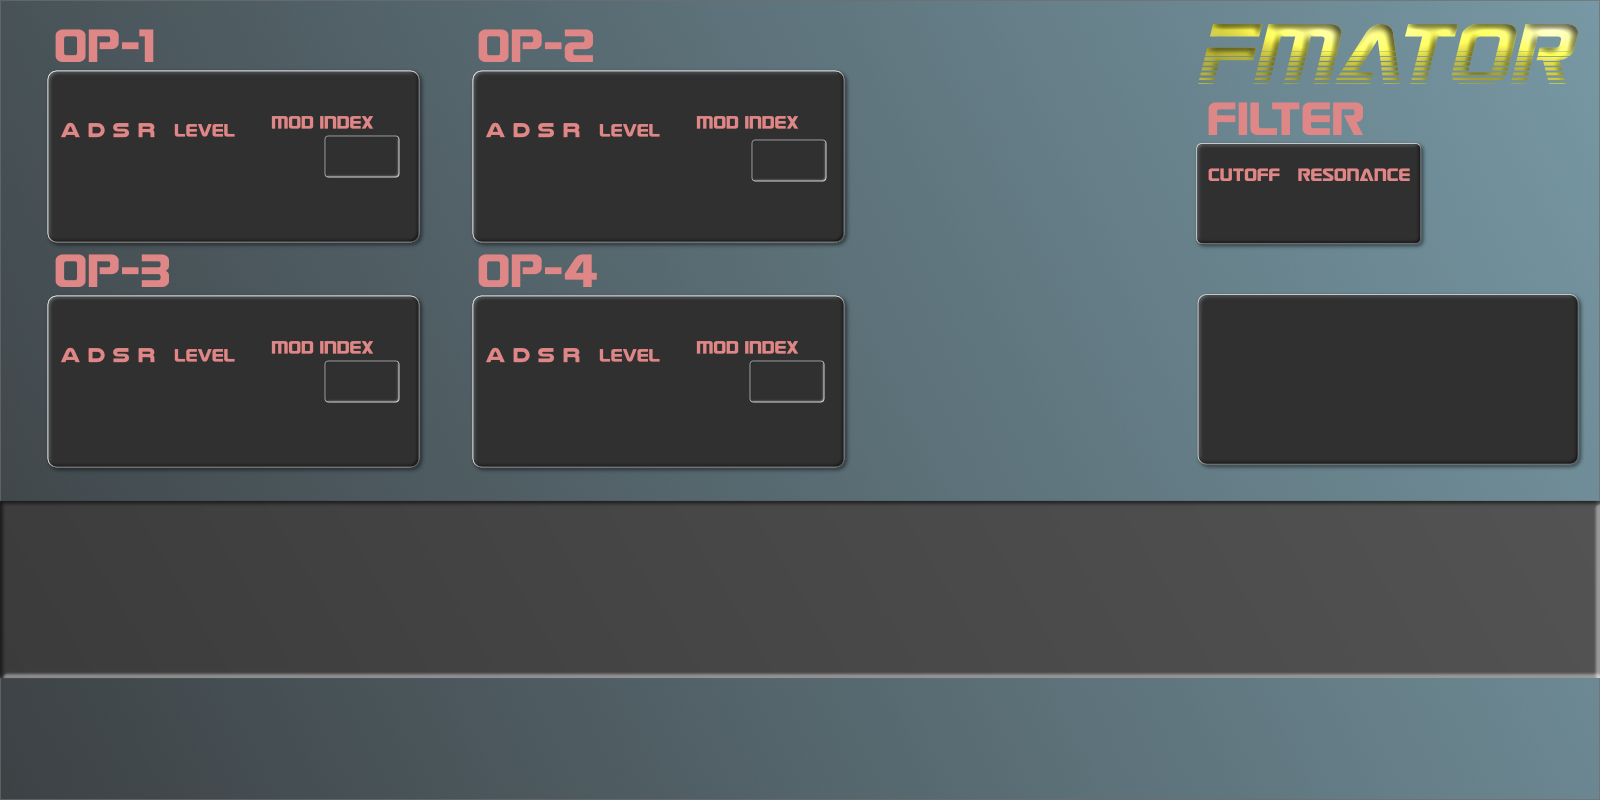
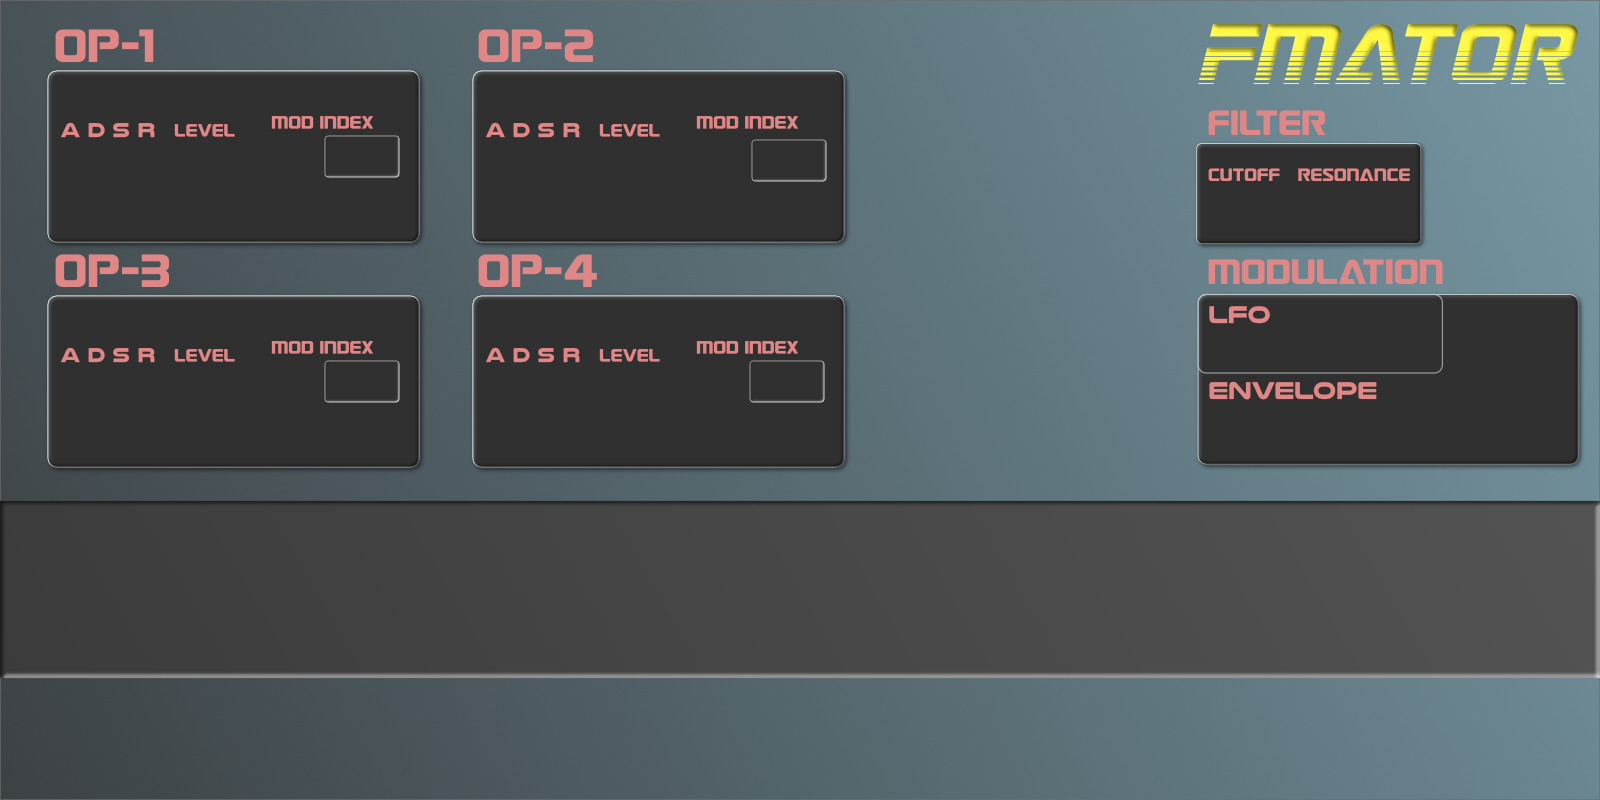
Added LFO backend, Envelope front end and fixes.
MEMORY LEAK IS PRESENT

diff --git a/Source/PluginEditor.cpp b/Source/PluginEditor.cpp
@@ -12,7 +12,7 @@
 
 //==============================================================================
 ThirdYearProjectAudioProcessorEditor::ThirdYearProjectAudioProcessorEditor (ThirdYearProjectAudioProcessor& p)
-	: AudioProcessorEditor (&p), audioProcessor (p), keyboardComponent(keyboardState, MidiKeyboardComponent::horizontalKeyboard)
+	: AudioProcessorEditor (&p), audioProcessor (p), keyboardComponent(audioProcessor.keyboardState, MidiKeyboardComponent::horizontalKeyboard)
 {
 
 	// Make sure that before the constructor has finished, you've set the
@@ -25,7 +25,7 @@ ThirdYearProjectAudioProcessorEditor::ThirdYearProjectAudioProcessorEditor (Thir
 
 	// Keyboard
 	addAndMakeVisible(keyboardComponent);
-	keyboardState.addListener(this);
+	audioProcessor.keyboardState.addListener(this);
 	keyboardComponent.setAvailableRange(0, 127);
 
 	specWidth = getLocalBounds().getWidth();
@@ -283,6 +283,43 @@ ThirdYearProjectAudioProcessorEditor::ThirdYearProjectAudioProcessorEditor (Thir
 	op4ReleaseSlider.setTextBoxStyle(noDisplay, false, 1, 1);
 	op4ReleaseSliderAttachment = new AudioProcessorValueTreeState::SliderAttachment(audioProcessor.apvt, "OP4RELEASE", op4ReleaseSlider);
 
+	// mod ADSR
+// Adding slider
+	addAndMakeVisible(modAttackSlider);
+	modAttackSlider.setRange(0, 12);
+	modAttackSlider.setTextValueSuffix("s");
+	modAttackSlider.addListener(this);
+	modAttackSlider.setColour(Slider::ColourIds::backgroundColourId, Colour(0, 74, 97));
+	modAttackSlider.setSliderStyle(Slider::SliderStyle::LinearVertical);
+	modAttackSlider.setTextBoxStyle(noDisplay, false, 1, 1);
+	modAttackSliderAttachment = new AudioProcessorValueTreeState::SliderAttachment(audioProcessor.apvt, "MODATTACK", modAttackSlider);
+	// Adding slider
+	addAndMakeVisible(modDecaySlider);
+	modDecaySlider.setRange(0, 12);
+	modDecaySlider.setTextValueSuffix("s");
+	modDecaySlider.addListener(this);
+	modDecaySlider.setColour(Slider::ColourIds::backgroundColourId, Colour(0, 74, 97));
+	modDecaySlider.setSliderStyle(Slider::SliderStyle::LinearVertical);
+	modDecaySlider.setTextBoxStyle(noDisplay, false, 1, 1);
+	modDecaySliderAttachment = new AudioProcessorValueTreeState::SliderAttachment(audioProcessor.apvt, "MODDECAY", modDecaySlider);
+	// Adding slider
+	addAndMakeVisible(modSustainSlider);
+	modSustainSlider.setRange(0, 12);
+	modSustainSlider.setTextValueSuffix("dB");
+	modSustainSlider.addListener(this);
+	modSustainSlider.setColour(Slider::ColourIds::backgroundColourId, Colour(0, 74, 97));
+	modSustainSlider.setSliderStyle(Slider::SliderStyle::LinearVertical);
+	modSustainSlider.setTextBoxStyle(noDisplay, false, 1, 1);
+	modSustainSliderAttachment = new AudioProcessorValueTreeState::SliderAttachment(audioProcessor.apvt, "MODSUSTAIN", modSustainSlider);
+	// Adding slider
+	addAndMakeVisible(modReleaseSlider);
+	modReleaseSlider.setRange(0, 12);
+	modReleaseSlider.setTextValueSuffix("s");
+	modReleaseSlider.addListener(this);
+	modReleaseSlider.setColour(Slider::ColourIds::backgroundColourId, Colour(0, 74, 97));
+	modReleaseSlider.setSliderStyle(Slider::SliderStyle::LinearVertical);
+	modReleaseSlider.setTextBoxStyle(noDisplay, false, 1, 1);
+	modReleaseSliderAttachment = new AudioProcessorValueTreeState::SliderAttachment(audioProcessor.apvt, "MODRELEASE", modReleaseSlider);
 
 	// Filter
 	// Adding slider
@@ -360,7 +397,7 @@ void ThirdYearProjectAudioProcessorEditor::resized()
 	op3ReleaseSlider.setBounds(137, secondRow + 140, 20, 95);
 
 	
-	op4LevelSlider.setBounds(secondColumn + 60, secondRow + 140, 20, 95);
+	op4LevelSlider.setBounds(secondColumn + 190, secondRow + 140, 20, 95);
 	op4ModIndexSlider.setBounds(secondColumn + sliderLeft + 142, secondRow + 128, 60, 60);
 
 	op4AttackSlider.setBounds(secondColumn + 60, secondRow + 140, 20, 95);
@@ -368,19 +405,27 @@ void ThirdYearProjectAudioProcessorEditor::resized()
 	op4SustainSlider.setBounds(secondColumn + 111, secondRow + 140, 20, 95);
 	op4ReleaseSlider.setBounds(secondColumn + 137, secondRow + 140, 20, 95);
 
+
+	modAttackSlider.setBounds((getWidth() / 4) * 3 + 10, 230, 20, 95);
+	modDecaySlider.setBounds((getWidth() / 4) * 3 + 25, 230, 20, 95);
+	modSustainSlider.setBounds((getWidth() / 4) * 3 + 40, 230, 20, 95);
+	modReleaseSlider.setBounds((getWidth() / 4) * 3 + 55, 230, 20, 95);
+
+
 	cutoffSlider.setBounds((getWidth() / 4) * 3 + 11, 180, 60, 60);
 
 	resonanceSlider.setBounds((getWidth() / 4) * 3 + 117, 180, 60, 60);
 
-	int w = (int)keyboardComponent.getKeyWidth() * (7 * 10 + 5), h = 80;
+	int w = (int)keyboardComponent.getKeyWidth() * (7 * 10 + 5), h = 100;
 	keyboardComponent.setSize(w, h);
-	keyboardComponent.setCentrePosition(getWidth() / 2, getHeight() - 60);
+	keyboardComponent.setCentrePosition(getWidth() / 2, getHeight() - 50);
 }
 
 void ThirdYearProjectAudioProcessorEditor::drawSpecFrame(Graphics& g)
 {
 
 	AffineTransform transform = AffineTransform::translation((float)0, (float)specHeight + 340);
+
 	for (int i = 1; i < audioProcessor.scopeSize; ++i)
 	{
 		Line<float> line ((float)jmap(i - 1, 0, audioProcessor.scopeSize - 1, 0, specWidth),
@@ -401,6 +446,7 @@ void ThirdYearProjectAudioProcessorEditor::handleNoteOn(juce::MidiKeyboardState*
 {
 	midiChannel = 1;
 	juce::MidiMessage::noteOn(midiChannel, midiNoteNumber, velocity);
+
 }
 
 void ThirdYearProjectAudioProcessorEditor::handleNoteOff(juce::MidiKeyboardState*, int midiChannel, int midiNoteNumber, float /*velocity*/)

diff --git a/Source/PluginProcessor.cpp b/Source/PluginProcessor.cpp
@@ -85,6 +85,15 @@ ThirdYearProjectAudioProcessor::ThirdYearProjectAudioProcessor()
     NormalisableRange<float> op4ReleaseRange(0, 3);
     apvt.createAndAddParameter("OP4RELEASE", "OP4RELEASE", "OP4RELEASE", op4ReleaseRange, 0.0f, nullptr, nullptr);
     
+    // MOD Envelope
+    NormalisableRange<float> modAttackRange(0, 3);
+    apvt.createAndAddParameter("MODATTACK", "MODATTACK", "MODATTACK", modAttackRange, 0.0f, nullptr, nullptr);
+    NormalisableRange<float> modDecayRange(0, 3);
+    apvt.createAndAddParameter("MODDECAY", "MODDECAY", "MODDECAY", modDecayRange, 0.0f, nullptr, nullptr);
+    NormalisableRange<float> modSustainRange(0, 1);
+    apvt.createAndAddParameter("MODSUSTAIN", "MODSUSTAIN", "MODSUSTAIN", modSustainRange, 0.0f, nullptr, nullptr);
+    NormalisableRange<float> modReleaseRange(0, 3);
+    apvt.createAndAddParameter("MODRELEASE", "MODRELEASE", "MODRELEASE", modReleaseRange, 0.0f, nullptr, nullptr);
     
     // Filter
     NormalisableRange<float> cutoffRange(0.1, 20000);
@@ -96,8 +105,6 @@ ThirdYearProjectAudioProcessor::ThirdYearProjectAudioProcessor()
     apvt.createAndAddParameter("ALGO", "ALGO", "ALGO", algoRange, 1.0f, nullptr, nullptr);
 
     apvt.state = ValueTree("apvt");
-
-    lfo = new Oscillator(lastSampleRate, 1);
 
     mySynth.clearVoices();
     // Create 5 voices.
@@ -183,10 +190,11 @@ void ThirdYearProjectAudioProcessor::prepareToPlay (double sampleRate, int sampl
     // Use this method as the place to do any pre-playback
     // initialisation that you need..
 
-
     ignoreUnused(samplesPerBlock);
 
     lastSampleRate = sampleRate;
+    lfo = new Oscillator(lastSampleRate, 1);
+
     mySynth.setCurrentPlaybackSampleRate(lastSampleRate);
 
     midiCollector.reset(sampleRate);
@@ -280,6 +288,7 @@ void ThirdYearProjectAudioProcessor::drawNextFrameOfSpectrum()
 
 void ThirdYearProjectAudioProcessor::processBlock (juce::AudioBuffer<float>& buffer, juce::MidiBuffer& midiMessages)
 {
+    keyboardState.processNextMidiBuffer(midiMessages, 0, buffer.getNumSamples(), true);
 
     for (int i = 0; i < mySynth.getNumVoices(); i++) {
         // Check that myVoice is a SynthVoice*
@@ -301,6 +310,8 @@ void ThirdYearProjectAudioProcessor::processBlock (juce::AudioBuffer<float>& buf
             myVoice->setOp4Adsr((float*)apvt.getRawParameterValue("OP4ATTACK"), (float*)apvt.getRawParameterValue("OP4DECAY"), (float*)apvt.getRawParameterValue("OP4SUSTAIN"), (float*)apvt.getRawParameterValue("OP4RELEASE"));
             
             myVoice->setAlgo((float*)apvt.getRawParameterValue("ALGO"));
+
+            myVoice->setModAdsr((float*)apvt.getRawParameterValue("MODATTACK"), (float*)apvt.getRawParameterValue("MODDECAY"), (float*)apvt.getRawParameterValue("MODSUSTAIN"), (float*)apvt.getRawParameterValue("MODRELEASE"));
         }
     }
 
@@ -331,6 +342,9 @@ void ThirdYearProjectAudioProcessor::processBlock (juce::AudioBuffer<float>& buf
     lowPassFilter.process(dsp::ProcessContextReplacing<float>(block));
 
     //block.multiplyBy(lfo->oscCycle((double) 2.0, (double) 10 ));
+    float val = lfo->oscCycle((double)2.0, (double)100);
+    
+    DBG(val);
     
     for (int channel = 0; channel < totalNumOutputChannels; ++channel)
     {

diff --git a/Source/SynthVoice.h b/Source/SynthVoice.h
@@ -87,6 +87,13 @@ public:
         op4AdsrParams.release = *release;
     }
 
+    void setModAdsr(float* attack, float* decay, float* sustain, float* release) {
+        modAdsrParams.attack = *attack;
+        modAdsrParams.decay = *decay;
+        modAdsrParams.sustain = *sustain;
+        modAdsrParams.release = *release;
+    }
+
     void setADSRSampleRate (double sampleRate) {
         op1Adsr.setSampleRate(sampleRate);
         op2Adsr.setSampleRate(sampleRate);
@@ -116,6 +123,7 @@ public:
         op2Adsr.noteOn();
         op3Adsr.noteOn();
         op4Adsr.noteOn();
+        modAdsr.noteOn();
     }
 
     //===============================================//
@@ -134,6 +142,7 @@ public:
         op2Adsr.noteOff();
         op3Adsr.noteOff();
         op4Adsr.noteOff();
+        modAdsr.noteOff();
     }
 
     void pitchWheelMoved(int newPitchWheelValue) {
@@ -149,6 +158,8 @@ public:
         op2Adsr.setParameters(op2AdsrParams);
         op3Adsr.setParameters(op3AdsrParams);
         op4Adsr.setParameters(op4AdsrParams);
+        modAdsr.setParameters(modAdsrParams);
+        
         // Written using JUCE midi synthesizer tutorial.
         if (angleDelta != 0.0) {
             // Check if note should have ended.
@@ -156,7 +167,7 @@ public:
                 // Check theres samples left.
                 while (--numSamples >= 0) {
                     // Calculate sample value.
-                    auto currentSample = op1Adsr.getNextSample() * fmOSC(algorithm, fmTable, angleDelta, &op1Adsr, &op2Adsr, &op3Adsr, &op4Adsr) * level;
+                    auto currentSample = fmOSC(algorithm, fmTable, angleDelta, &op1Adsr, &op2Adsr, &op3Adsr, &op4Adsr) * level;
                     // Add sample to outputBuffer
                     for (auto i = outputBuffer.getNumChannels(); --i >= 0;) {
                         outputBuffer.addSample(i, startSample, currentSample);
@@ -219,4 +230,7 @@ private:
 
     ADSR op4Adsr;
     ADSR::Parameters op4AdsrParams;
+
+    ADSR modAdsr;
+    ADSR::Parameters modAdsrParams;
 };

diff --git a/Source/PluginEditor.h b/Source/PluginEditor.h
@@ -98,7 +98,7 @@ private:
 	juce::Slider op2ReleaseSlider;
 	ScopedPointer<AudioProcessorValueTreeState::SliderAttachment> op2ReleaseSliderAttachment;
 
-	// op1 ADSR
+	// op3 ADSR
 	juce::Slider op3AttackSlider;
 	ScopedPointer<AudioProcessorValueTreeState::SliderAttachment> op3AttackSliderAttachment;
 	juce::Slider op3DecaySlider;
@@ -108,7 +108,7 @@ private:
 	juce::Slider op3ReleaseSlider;
 	ScopedPointer<AudioProcessorValueTreeState::SliderAttachment> op3ReleaseSliderAttachment;
 
-	// op1 ADSR
+	// op4 ADSR
 	juce::Slider op4AttackSlider;
 	ScopedPointer<AudioProcessorValueTreeState::SliderAttachment> op4AttackSliderAttachment;
 	juce::Slider op4DecaySlider;
@@ -117,6 +117,16 @@ private:
 	ScopedPointer<AudioProcessorValueTreeState::SliderAttachment> op4SustainSliderAttachment;
 	juce::Slider op4ReleaseSlider;
 	ScopedPointer<AudioProcessorValueTreeState::SliderAttachment> op4ReleaseSliderAttachment;
+
+	// mod ADSR
+	juce::Slider modAttackSlider;
+	ScopedPointer<AudioProcessorValueTreeState::SliderAttachment> modAttackSliderAttachment;
+	juce::Slider modDecaySlider;
+	ScopedPointer<AudioProcessorValueTreeState::SliderAttachment> modDecaySliderAttachment;
+	juce::Slider modSustainSlider;
+	ScopedPointer<AudioProcessorValueTreeState::SliderAttachment> modSustainSliderAttachment;
+	juce::Slider modReleaseSlider;
+	ScopedPointer<AudioProcessorValueTreeState::SliderAttachment> modReleaseSliderAttachment;
 
 	// Filter
 	juce::Slider cutoffSlider;

diff --git a/Source/Oscillator.h b/Source/Oscillator.h
@@ -24,30 +24,36 @@ public:
 
 	float oscCycle( double frequency, double level) {
 		auto cyclesPerSecond = frequency;
+		DBG("cycles per second: " + String(cyclesPerSecond));
 		auto cyclesPerSample = cyclesPerSecond / localSampleRate;
+		DBG("cycles per sample: " + String(localSampleRate));
 
 		angleDelta = cyclesPerSample * 2.0 * MathConstants<double>::pi;
+		DBG("angle delta: " + String(angleDelta));
+
+		currentAngle += angleDelta;
 
 		switch (waveform) {
 		// Sin
 		case 1:
 		{
-			float value = level * sin(angleDelta);
+			value = level * sin(currentAngle);
 			break;
 		}
-			// Triangle
+		// Triangle
 		case 2:
 			break;
 		// Square
 		case 3:
 			break;
 		}
+
 		return value;
 	}
 private:
-	float time;
+	float currentAngle = 1;
 	float angleDelta;
 	double localSampleRate;
 	int waveform;
-	float value = 0;
+	float value = 1;
 };

diff --git a/Source/Oscillator.cpp b/Source/Oscillator.cpp
@@ -2,35 +2,10 @@
   ==============================================================================
 
     Oscillator.cpp
-    Created: 4 Dec 2020 10:53:25am
+    Created: 21 Dec 2020 12:21:38pm
     Author:  hamis
 
   ==============================================================================
 */
 
 #include "Oscillator.h"
-
-Oscillator(double sampleRate, int wave) {
-	localSampleRate = sampleRate;
-	waveform = wave;
-}
-
-float oscCycle(int wave, double frequency, double level, double sampleRate) {
-	auto cyclesPerSecond = frequency;
-	auto cyclesPerSample = cyclesPerSecond / sampleRate;
-
-	angleDelta = cyclesPerSample * 2.0 * MathConstants<double>::pi;
-
-	switch (waveform) {
-		// Sin
-	case 1:
-		float value = level * sin(angleDelta);
-		break;
-		// Triangle
-	case 2:
-		break;
-		// Square
-	case 3:
-		break;
-	}
-}

diff --git a/Source/FMOscillator.cpp b/Source/FMOscillator.cpp
@@ -19,25 +19,9 @@
 - op1 + op2 + op3 + op4
 */
 
-float wave(int wave, double angle, double level) {
-	switch (wave) {
-	// Sin
-	case 1:
-		return (float)(std::sin(angle) * level);
-		break;
-	// Triangle
-	case 2:
-		break;
-	// Square
-	case 3:
-		break;
-	}
-}
-
 float op(double angle, double level, ADSR* env) {
 	float nextEnvSample = env->getNextSample();
 	return (float) (env->getNextSample() * std::sin(angle) * level);
-	
 }
 
 float fmOSC(int algo, double fmTable[][4], double angleDelta, ADSR* op1Env, ADSR* op2Env, ADSR* op3Env, ADSR* op4Env) {

diff --git a/Source/PluginProcessor.h b/Source/PluginProcessor.h
@@ -73,6 +73,8 @@ public:
     bool nextFFTBlockReady = false;
     float scopeData[scopeSize];
 
+    MidiKeyboardState keyboardState;
+
 private:
     Synthesiser mySynth;
     SynthVoice* myVoice;
